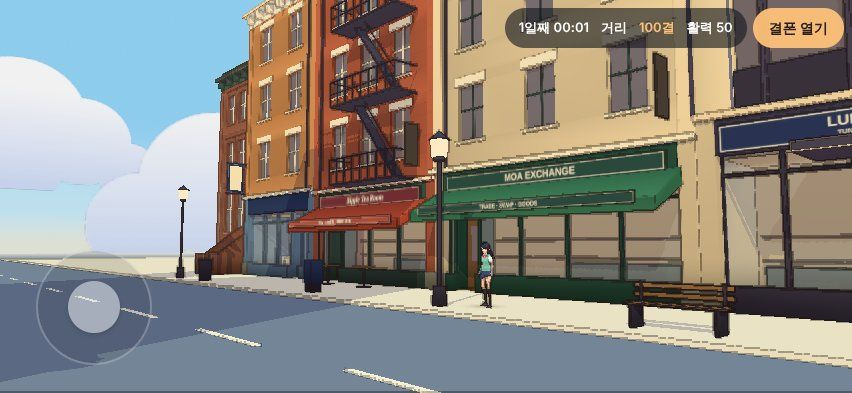
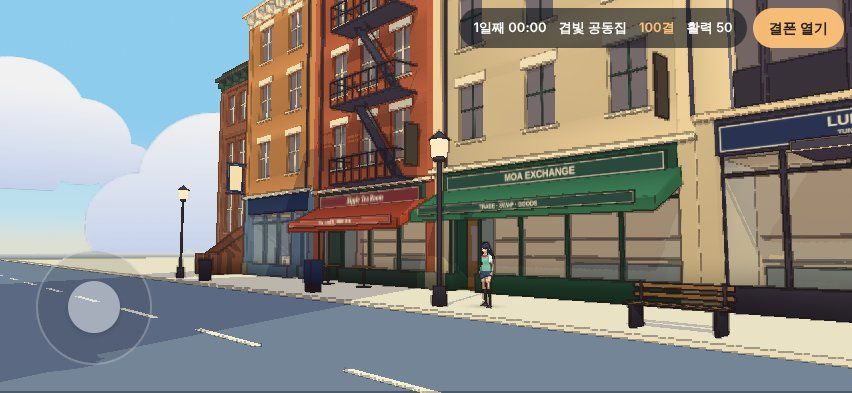
C077: 장소→건물 모델 표(placeModels) 하나로 분리, 스크린샷 2장으로 정리
도시 참조가 도쿄로 바뀌어(마스터 지시) 뉴욕 외관 다듬기는 멈추고, 나중에 모델을 바꿔 끼울 수 있게
장소 7곳 배치·문 연결은 그대로 두고 건물 모델만 한 표에서 고르도록 했다.

Changed region(s): [[0.5188, 0.0, 0.7324, 0.1221], [0.5493, 0.6412, 0.5798, 0.7328]]

diff --git a/src/scene/town.ts b/src/scene/town.ts
@@ -11,20 +11,25 @@ import { townDoors } from '../data/doors';
 // sidewalks), so player.ts kerbs and bounds hold. Kit numbers per type: ground storey, floor height, width, depth.
 const kit: Record<string, number[]> = { walkup: [4, 3.2, 8, 13], brownstone: [5.5, 3, 6.5, 13], limestone: [4.2, 3.2, 9, 13],
   office: [4.6, 3.6, 14, 15], theater: [5.2, 3.6, 11, 16], laundry: [4.2, 3.1, 7, 12] };
-// Lot: type, mid floors, centre x, façade z, facing (+1 looks at +z, -1 at -z), flip (door side swapped), another
-// kit wall (neighbours of one type apart, STYLE §2). Unflipped, a corner building shows its side façade to the cross
-// street (as block.ts).
-const lots: [string, number, number, number, number, boolean?, string?][] = [
-  // South row: 빛고리 조율실 (office on the corner), 모아결 교환소 (limestone shop), 잔물결 찻방 (walk-up tea room).
-  ['office', 4, -16.5, -9.5, 1], ['limestone', 3, -28, -9.5, 1, true], ['walkup', 3, -36.5, -9.5, 1, true],
-  ['laundry', 3, -44, -9.5, 1], ['brownstone', 2, -50.75, -9.5, 1],
-  // North row: 떠오름 뜰 (pocket square, x -24..-9.5), 겹빛 공동집 (walk-up), 고요결 집 and 높은울 집 (brownstones).
-  ['walkup', 5, -28, 9.5, -1], ['brownstone', 2, -35.25, 9.5, -1], ['brownstone', 4, -41.75, 9.5, -1, false, 'wall_tanbrick'], ['walkup', 3, -49, 9.5, -1],
-  ['brownstone', 3, -12.75, 24.5, -1], ['walkup', 4, -20, 24.5, -1, false, 'wall_brownstone'], // the square's back wall
-  // East of the crossing: the rest of the neighbourhood.
-  ['limestone', 4, 14, -9.5, 1], ['brownstone', 2, 21.75, -9.5, 1], ['walkup', 5, 29, -9.5, 1], ['laundry', 4, 36.5, -9.5, 1],
-  ['walkup', 3, 44, -9.5, 1], ['limestone', 3, 14, 9.5, -1], ['theater', 2, 24, 9.5, -1], ['walkup', 4, 33.5, 9.5, -1],
-  ['brownstone', 3, 40.75, 9.5, -1],
+// Building model: kit type, mid floors, flip (door side swapped), another kit wall (neighbours apart, STYLE §2).
+type Model = [string, number, boolean?, string?];
+// Place -> building model: the one table to swap when real models replace the kit placeholders (data/doors townDoors
+// holds each door, so a new model's door goes there too). 떠오름 뜰 is the open square, not a building.
+export const placeModels: Record<string, Model> = { office: ['office', 4], shop: ['limestone', 3, true],
+  cafe: ['walkup', 3, true], nest: ['walkup', 5], quiet: ['brownstone', 2], high: ['brownstone', 4, false, 'wall_tanbrick'] };
+// Lot: place id or filler model, centre x, façade z, facing (+1 looks at +z, -1 at -z). Unflipped, a corner building
+// shows its side façade to the cross street (as block.ts).
+const lots: [string | Model, number, number, number][] = [
+  // South row: 빛고리 조율실 on the corner, 모아결 교환소, 잔물결 찻방; north row: 떠오름 뜰 (x -24..-9.5), 겹빛 공동집,
+  // 고요결 집, 높은울 집.
+  ['office', -16.5, -9.5, 1], ['shop', -28, -9.5, 1], ['cafe', -36.5, -9.5, 1],
+  ['nest', -28, 9.5, -1], ['quiet', -35.25, 9.5, -1], ['high', -41.75, 9.5, -1],
+  // Fillers: row ends, the square's back wall, east of the crossing.
+  [['laundry', 3], -44, -9.5, 1], [['brownstone', 2], -50.75, -9.5, 1], [['walkup', 3], -49, 9.5, -1],
+  [['brownstone', 3], -12.75, 24.5, -1], [['walkup', 4, false, 'wall_brownstone'], -20, 24.5, -1],
+  [['limestone', 4], 14, -9.5, 1], [['brownstone', 2], 21.75, -9.5, 1], [['walkup', 5], 29, -9.5, 1], [['laundry', 4], 36.5, -9.5, 1],
+  [['walkup', 3], 44, -9.5, 1], [['limestone', 3], 14, 9.5, -1], [['theater', 2], 24, 9.5, -1], [['walkup', 4], 33.5, 9.5, -1],
+  [['brownstone', 3], 40.75, 9.5, -1],
 ];
 const square = { x0: -24, x1: -9.5, z0: 9.5, z1: 24.5 }, sx = (square.x0 + square.x1) / 2, sz = (square.z0 + square.z1) / 2;
 // Curb furniture every 3 m (block.ts rhythm), none in front of a door.
@@ -68,7 +73,8 @@ export async function buildTown(scene: T.Scene) {
   }
   const local = (o: T.Object3D, x0: number, x1: number, z0: number, z1: number, h: number) =>
     new T.Box3().setFromPoints([new T.Vector3(x0, 0, z0), new T.Vector3(x1, h, z1)].map(p => p.applyMatrix4(o.matrixWorld)));
-  for (const [type, mids, x, z, facing, flip, wall] of lots) {
+  for (const [lot, x, z, facing] of lots) {
+    const [type, mids, flip, wall] = typeof lot === 'string' ? placeModels[lot] : lot;
     const [G, FH, W, D] = kit[type], holder = new T.Group();
     holder.position.set(x, 0.11, z - (type === 'brownstone' ? facing * 1.2 : 0)); // brownstones: areaway
     holder.rotation.y = facing > 0 ? 0 : Math.PI;
